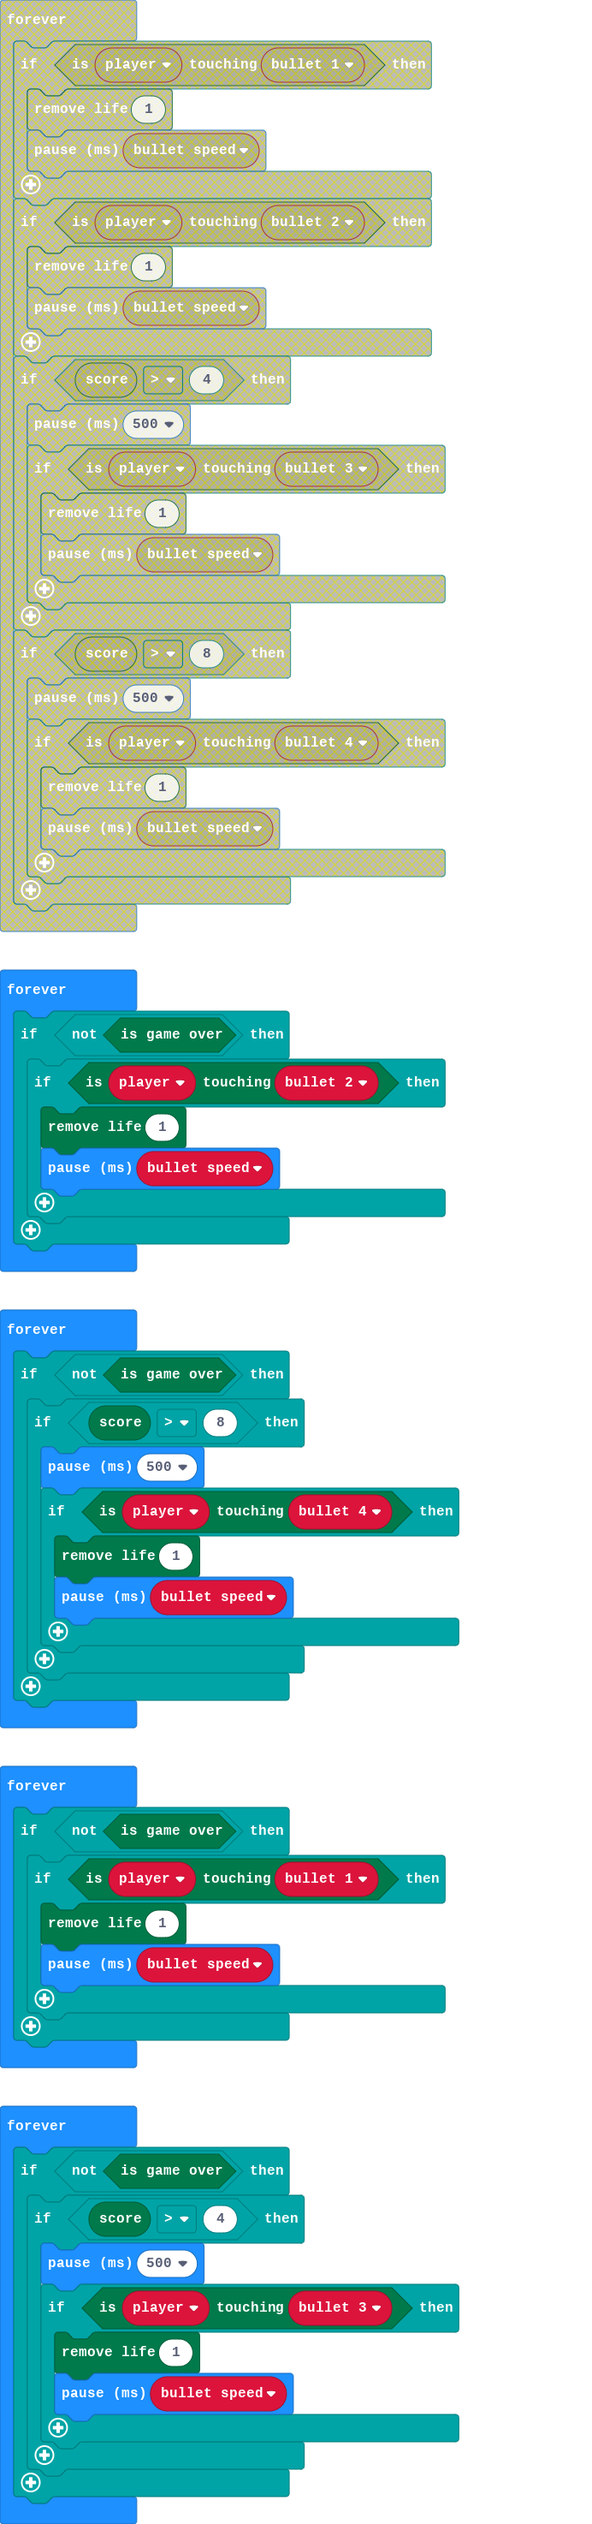
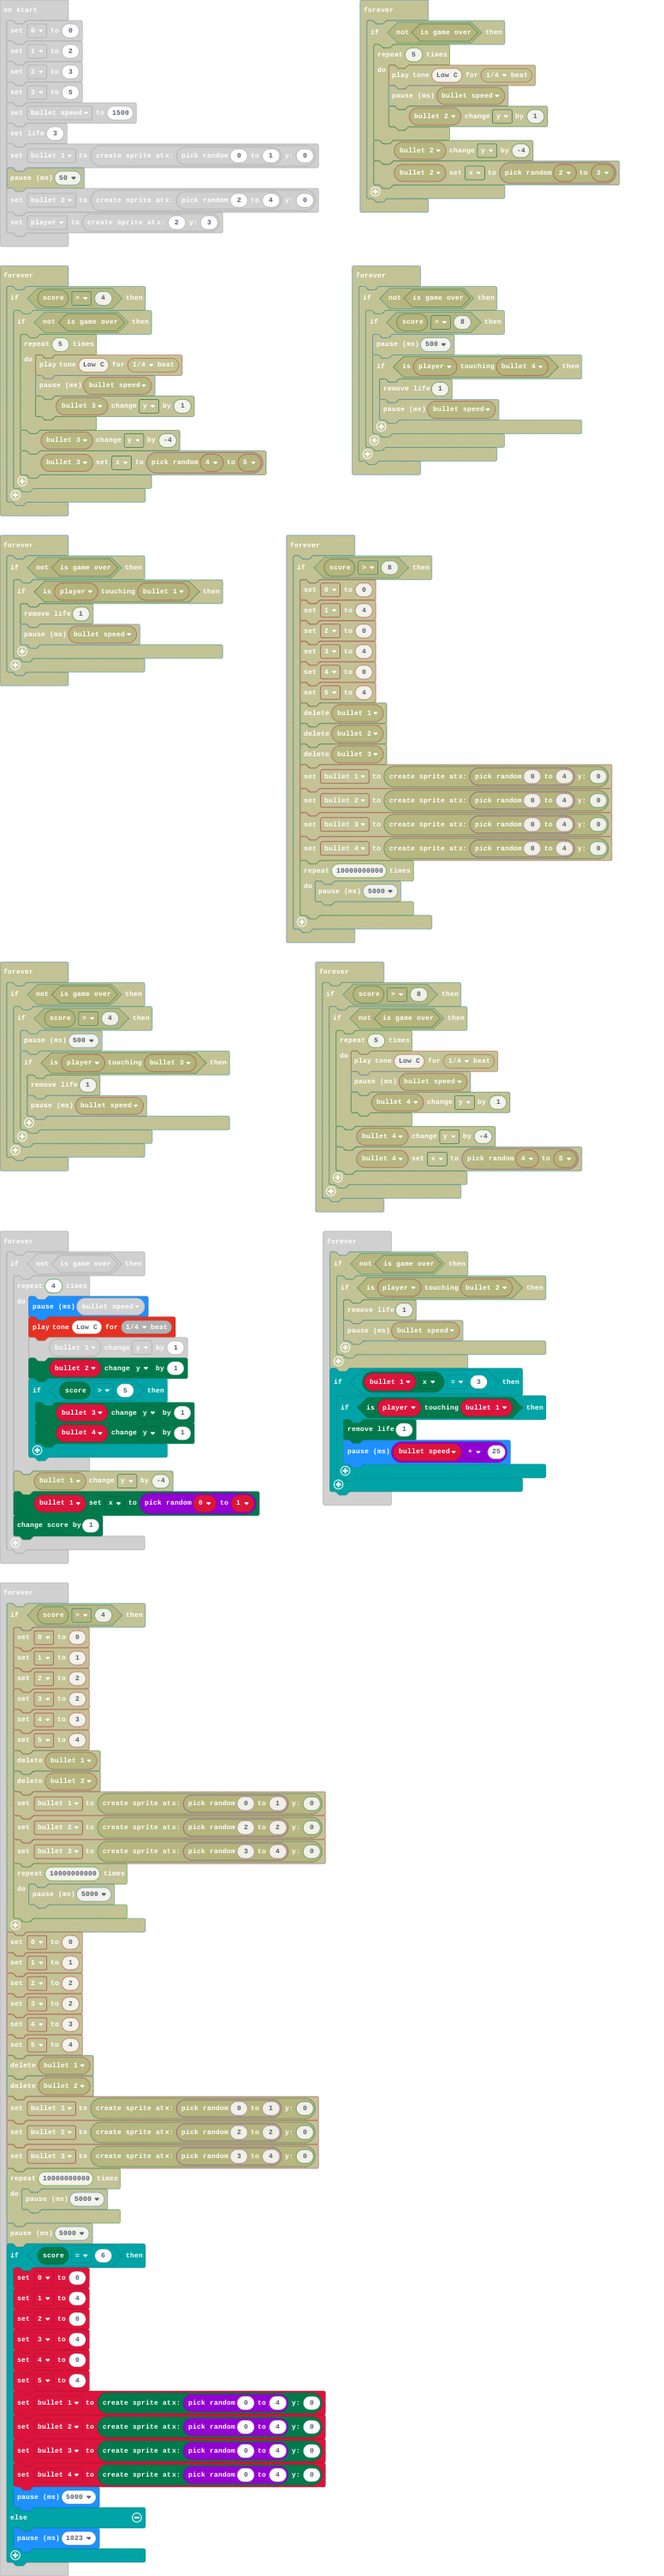
Update main.blocks, main.ts

diff --git a/main.ts b/main.ts
@@ -18,19 +18,20 @@ let _3 = 5
 let bullet_speed = 1500
 game.setLife(3)
 let bullet_1 = game.createSprite(randint(0, 1), 0)
-basic.pause(50)
 let bullet_2 = game.createSprite(randint(2, 4), 0)
 player = game.createSprite(2, 3)
 basic.forever(function () {
     if (!(game.isGameOver())) {
-        for (let index = 0; index < 5; index++) {
-            music.playTone(131, music.beat(BeatFraction.Quarter))
+        for (let index = 0; index < 4; index++) {
             basic.pause(bullet_speed)
+            music.playTone(131, music.beat(BeatFraction.Quarter))
             bullet_1.change(LedSpriteProperty.Y, 1)
+            bullet_2.change(LedSpriteProperty.Y, 1)
+            if (game.score() > 5) {
+                bullet_3.change(LedSpriteProperty.Y, 1)
+                bullet_4.change(LedSpriteProperty.Y, 1)
+            }
         }
-        bullet_1.change(LedSpriteProperty.Y, -4)
-        bullet_1.set(LedSpriteProperty.X, randint(_0, _1))
-        game.addScore(1)
     }
 })
 basic.forever(function () {
@@ -42,115 +43,27 @@ basic.forever(function () {
     }
 })
 basic.forever(function () {
-    if (!(game.isGameOver())) {
-        for (let index = 0; index < 5; index++) {
-            music.playTone(131, music.beat(BeatFraction.Quarter))
-            basic.pause(bullet_speed)
-            bullet_2.change(LedSpriteProperty.Y, 1)
-        }
-        bullet_2.change(LedSpriteProperty.Y, -4)
-        bullet_2.set(LedSpriteProperty.X, randint(_2, _3))
-    }
-})
-basic.forever(function () {
-    if (game.score() > 4) {
-        _0 = 0
-        _1 = 1
-        _2 = 2
-        _3 = 2
-        _4 = 3
-        _5 = 4
-        bullet_1.delete()
-        bullet_2.delete()
-        bullet_1 = game.createSprite(randint(0, 1), 0)
-        bullet_2 = game.createSprite(randint(2, 2), 0)
-        bullet_3 = game.createSprite(randint(3, 4), 0)
-        for (let index = 0; index < 10000000000; index++) {
-            basic.pause(5000)
-        }
-    }
-})
-basic.forever(function () {
-    if (game.score() > 4) {
-        if (!(game.isGameOver())) {
-            for (let index = 0; index < 5; index++) {
-                music.playTone(131, music.beat(BeatFraction.Quarter))
-                basic.pause(bullet_speed)
-                bullet_3.change(LedSpriteProperty.Y, 1)
-            }
-            bullet_3.change(LedSpriteProperty.Y, -4)
-            bullet_3.set(LedSpriteProperty.X, randint(_4, _5))
-        }
-    }
-})
-basic.forever(function () {
-    if (!(game.isGameOver())) {
-        if (player.isTouching(bullet_2)) {
-            game.removeLife(1)
-            basic.pause(bullet_speed)
-        }
-    }
-})
-basic.forever(function () {
-    if (!(game.isGameOver())) {
-        if (game.score() > 8) {
-            basic.pause(500)
-            if (player.isTouching(bullet_4)) {
-                game.removeLife(1)
-                basic.pause(bullet_speed)
-            }
-        }
-    }
-})
-basic.forever(function () {
-    if (!(game.isGameOver())) {
+    if (bullet_1.get(LedSpriteProperty.X) == 3) {
         if (player.isTouching(bullet_1)) {
             game.removeLife(1)
-            basic.pause(bullet_speed)
+            basic.pause(bullet_speed + 25)
         }
     }
 })
 basic.forever(function () {
-    if (game.score() > 8) {
+    if (game.score() == 6) {
         _0 = 0
         _1 = 4
         _2 = 0
         _3 = 4
         _4 = 0
         _5 = 4
-        bullet_1.delete()
-        bullet_2.delete()
-        bullet_3.delete()
         bullet_1 = game.createSprite(randint(0, 4), 0)
         bullet_2 = game.createSprite(randint(0, 4), 0)
         bullet_3 = game.createSprite(randint(0, 4), 0)
         bullet_4 = game.createSprite(randint(0, 4), 0)
-        for (let index = 0; index < 10000000000; index++) {
-            basic.pause(5000)
-        }
-    }
-})
-basic.forever(function () {
-    if (!(game.isGameOver())) {
-        if (game.score() > 4) {
-            basic.pause(500)
-            if (player.isTouching(bullet_3)) {
-                game.removeLife(1)
-                basic.pause(bullet_speed)
-            }
-        }
-    }
-})
-basic.forever(function () {
-    if (game.score() > 8) {
-        if (!(game.isGameOver())) {
-            for (let index = 0; index < 5; index++) {
-                music.playTone(131, music.beat(BeatFraction.Quarter))
-                basic.pause(bullet_speed)
-                bullet_4.change(LedSpriteProperty.Y, 1)
-            }
-            bullet_4.change(LedSpriteProperty.Y, -4)
-            bullet_4.set(LedSpriteProperty.X, randint(_4, _5))
-        }
+        basic.pause(5000)
+    } else {
+        basic.pause(1023)
     }
 })
